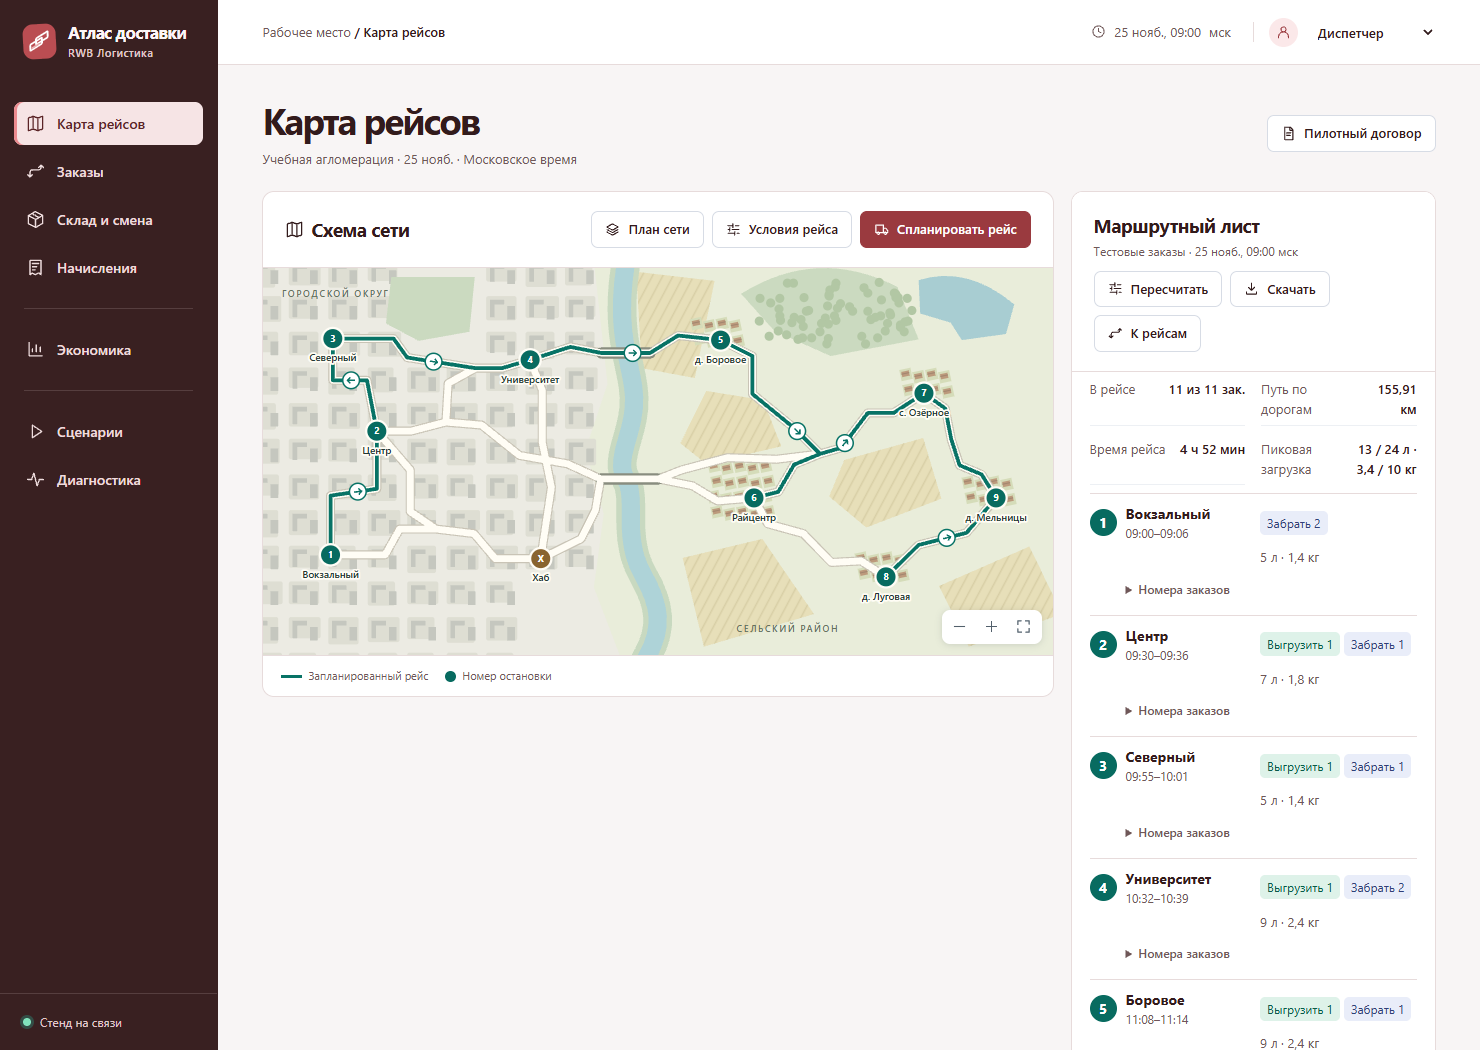
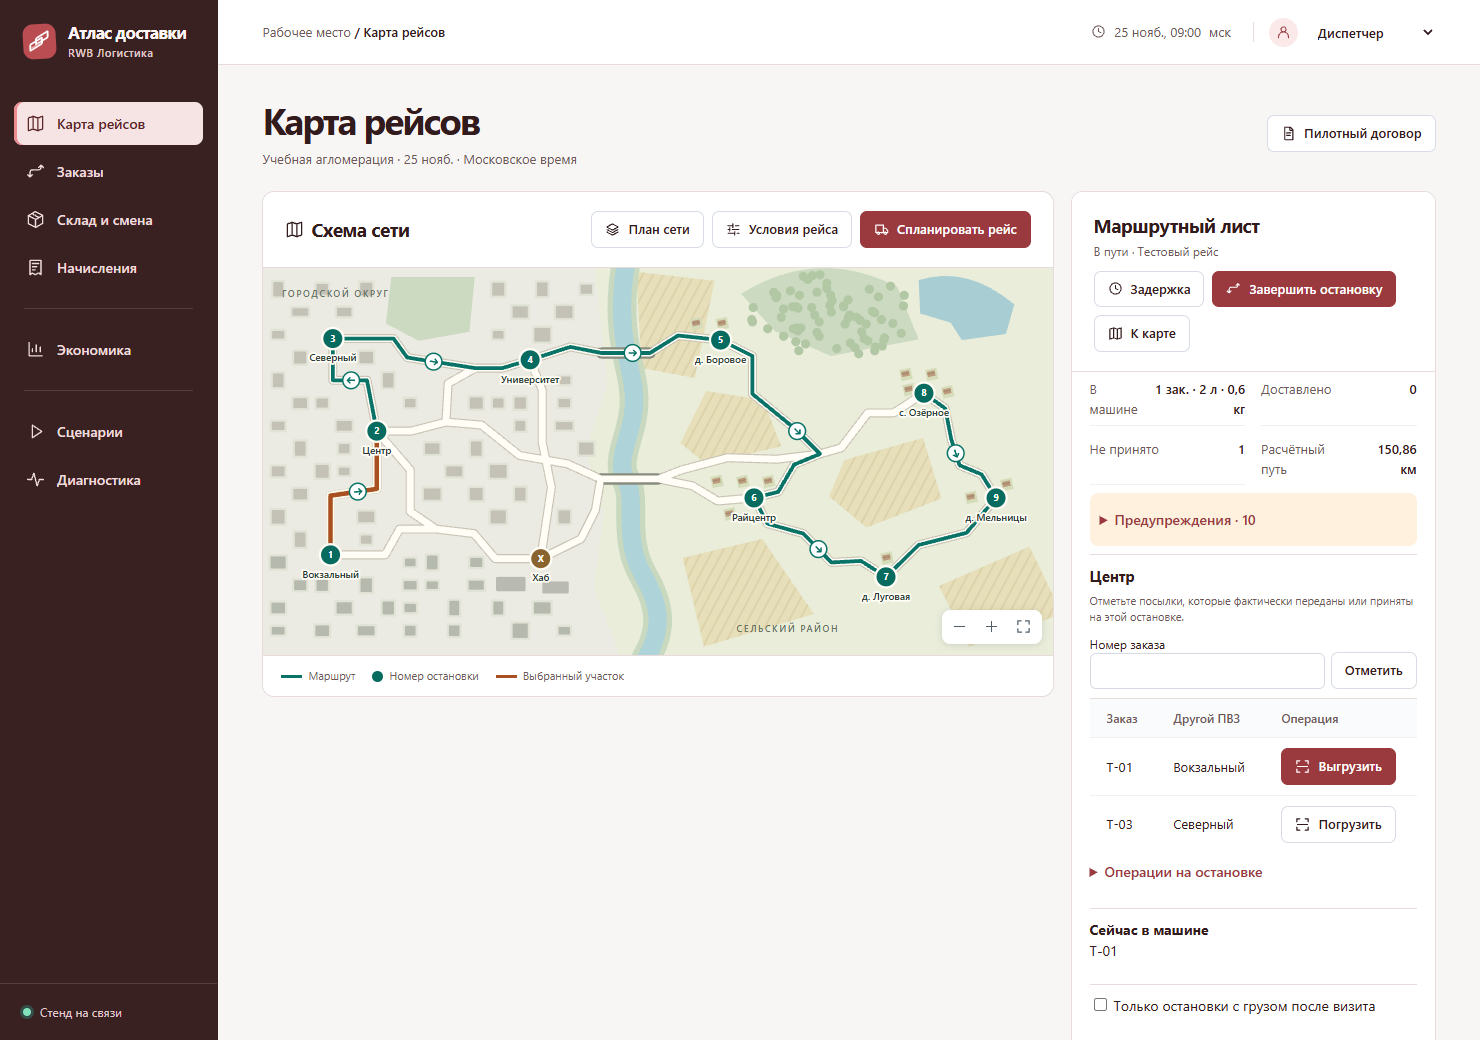
Place urban blocks and village houses around the road network

diff --git a/app/static/map.js b/app/static/map.js
@@ -80,21 +80,36 @@ let terrain;
 function mapTerrain(){
   if(terrain)return terrain;
   let buildings='',trees='',hamlets='';
+  const allRoads=roads.map(([from,to])=>roadGraph.get(from).find(e=>e.to===to));
+  const roadSegments=allRoads.flatMap(({coords})=>coords.slice(1).map((point,i)=>[coords[i],point]));
+  const occupied=[];
+  function freeSite(x,y,r){
+    const hasRoom=roadSegments.every(([a,b])=>{
+      const dx=b.x-a.x,dy=b.y-a.y;
+      const t=Math.max(0,Math.min(1,((x-a.x)*dx+(y-a.y)*dy)/(dx*dx+dy*dy)));
+      return Math.hypot(x-a.x-t*dx,y-a.y-t*dy)>r+8;
+    })&&occupied.every(([cx,cy,radius])=>Math.hypot(x-cx,y-cy)>r+radius+2);
+    if(hasRoom)occupied.push([x,y,r]);
+    return hasRoom;
+  }
   let seed=7321;
   function random(){
     seed=(seed*16807)%2147483647;
     return seed/2147483647;
   }
-  // City blocks end at the river. The opposite bank contains separated hamlets and cultivated strips.
-  for(let x=-18;x<435;x+=52)for(let y=-10;y<532;y+=47){
-    if((x>170 && x<290 && y<95)||(x>330 && y>390))continue;
-    const width=34+Math.floor(11*random()),height=27+Math.floor(10*random());
-    buildings+='<rect x="'+x+'" y="'+y+'" width="'+width+'" height="'+height+'" rx="3" fill="#deded3"/>'+
-      '<path transform="translate('+x+' '+y+')" d="M5 5h19v6H11v17H5zM28 13h10v18H28z" fill="#c5c7bf"/>';
+  // Build the blocks after reserving road space, the park and the industrial site by the hub.
+  for(let x=20;x<437;x+=29)for(let y=28;y<490;y+=30){
+    if((x>150&&x<295&&y<100)||(x>322&&y>350&&y<445)||(x>400&&y>445))continue;
+    const width=13+Math.floor(10*random()),height=10+Math.floor(10*random());
+    if(!freeSite(x,y,Math.hypot(width,height)/2+3))continue;
+    const left=x-width/2,top=y-height/2;
+    buildings+='<rect x="'+(left-3)+'" y="'+(top-3)+'" width="'+(width+6)+'" height="'+(height+6)+'" rx="2" fill="#e2e3d7"/>'+
+      '<rect x="'+left+'" y="'+top+'" width="'+width+'" height="'+height+'" rx="1.5" fill="'+(y>360?'#b6b9ad':'#c4c1b6')+'"/>';
   }
   for(const [x,y,nx,ny] of [[588,258,5,4],[841,137,4,2],[565,70,4,2],[782,379,4,2],[923,279,4,2]]){
     for(let i=0;i<nx;i++)for(let j=0;j<ny;j++){
       const px=x+i*17+(j%2)*4,py=y+j*20+(i%2)*3;
+      if(!freeSite(px+4,py+2,9))continue;
       hamlets+='<g transform="translate('+px+' '+py+') rotate(-12)"><rect x="-2" y="-3" width="15" height="15" fill="#d5dcb9"/><rect width="10" height="7" fill="#bc9a7c"/><path d="M0 3h10" stroke="#977c69"/></g>';
     }
   }
@@ -103,7 +118,6 @@ function mapTerrain(){
     if(((x-750)/109)**2+((y-62)/55)**2<1)trees+='<circle cx="'+x+'" cy="'+y+'" r="6" fill="#b2c7a4"/>';
   }
   const river='M481 -22C460 85 487 124 489 170S462 251 478 278S472 354 501 405S526 487 489 540';
-  const allRoads=roads.map(([from,to])=>roadGraph.get(from).find(e=>e.to===to));
   const crossings=[roadRoute('northBank','northBridge')[0],roadRoute('southBank','bridge')[0]];
   terrain='<defs><pattern id="fields" width="12" height="12" patternUnits="userSpaceOnUse" patternTransform="rotate(28)"><rect width="12" height="12" fill="#e7dfb9"/><path d="M2 0v12" stroke="#d8cfa6" stroke-width="2"/></pattern></defs>'+
     '<rect width="1040" height="510" fill="#e9edda"/><path d="M437 0H0v510h470l-34-89 13-97-24-84 29-87z" fill="#ecebe3"/>'+buildings+
@@ -111,6 +125,7 @@ function mapTerrain(){
     '<path d="M630 34q101-63 206-9l28 69-116 22-74-33zM169 12h110l-7 72-67 12-43-23z" fill="#cbdac0"/>'+trees+
     '<path d="M864 16q64-20 126 32l-11 39-58 8-15-23-40-12z" fill="#a8cdd2"/>'+
     '<path d="'+river+'" fill="none" stroke="#c8d9c0" stroke-width="38"/><path d="'+river+'" fill="none" stroke="#aed3d8" stroke-width="24"/>'+hamlets+
+    '<g fill="#b9bab1"><rect x="307" y="407" width="39" height="19" rx="2"/><rect x="368" y="413" width="35" height="16" rx="2"/></g>'+
     routeStroke(allRoads,'#c9c4b6',12)+routeStroke(crossings,'#898d7f',15)+routeStroke(allRoads,'#fffdf5',9)+
     '<g class="map-district"><text x="25" y="38">ГОРОДСКОЙ ОКРУГ</text><text x="624" y="480">СЕЛЬСКИЙ РАЙОН</text></g>';
   return terrain;
